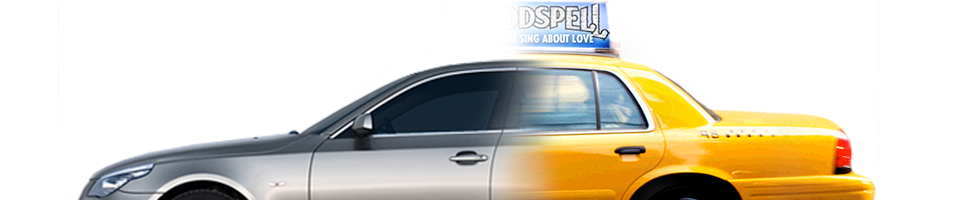
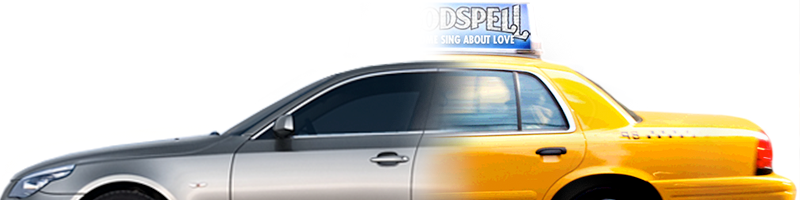
form page stylized

Changed region(s): [[0.0, 0.0, 1.0, 1.0]]

diff --git a/reusable-library/css/style.css b/reusable-library/css/style.css
@@ -1,19 +1,69 @@
 body{
 	margin: 0;
+	font-family: 'Source Sans Pro', sans-serif;
+}
+h1{
+	margin: 0;
+	color: #8B92A4;
+	font-weight: 700;
+	font-size: 42px;
+	line-height: 42px;
+}
+h2{
+	margin: 12px 0 0;
+	color: #BDBDC4;
+	font-weight: 400;
+	font-size: 32px;
+}
+#container{
+	height: 300px;
+	width: 800px;
+	margin: 50px auto 0;
+	padding: 20px;
+	border-radius: 10px;
+}
+#page_text{
+	width: 400px;
+	float: left;
+}
+#questions{
+	width: 350px;
+	float: right;
+}
+.option_box{
+	display: table-cell;
+    vertical-align: middle;
+    height: 30px;
+    width: 350px;
+    float: right;
+    margin-bottom: 15px;
+}
+label{
+	line-height: 30px;
+	font-weight: 200;
+	color: #0E1C29;
+}
+.input_num{
+	height: 25px;
+	width: 60px;
+	border: 1px solid #8B92A4;
+}
+#submit_button{
+	width: 350px;
+	height: 45px;
+	border: 1px solid #081725;
+	font-family: 'Source Sans Pro', sans-serif;
+	font-weight: 400;
+	font-size: 18px;
 }
 #car_img{
 	height: 200px;
-	width: 960px;
+	width: 800px;
 	background-image: url('../img/car_split.png');
 	position: absolute;
 	bottom: 0;
-}
-#container{
-	height: 100px;
-	width: 400px;
-	margin: 50px auto 0;
-	padding: 20px;
-	border: 20px solid black;
-	border-radius: 10px;
-	background-color: white;
+	left:0;
+    right:0;
+    margin-left:auto;
+    margin-right:auto;
 }

diff --git a/reusable-library/page.py b/reusable-library/page.py
@@ -6,24 +6,27 @@ class FormPage(object):
 	<head>
 		<title>BAC</title>
 		<link href="css/style.css" rel="stylesheet" type="text/css" >
+		<link href='http://fonts.googleapis.com/css?family=Source+Sans+Pro:400,700,200' rel='stylesheet' type='text/css'>
 	</head>
 	<body>
 	"""
 		self.body = """
 		<div id="container">
-			<h1>Form</h1>
+			<div id="page_text">
+				<h1>Having a hard time deciding on whether to drive or not?</h1> 
+				<h2>Use this blood alcohol concentration calculator to find which ride you need to take!</h2>
+			</div>
 			<form method="GET">
+				<div id="questions">
 					<div class="option_box">
 						<label for="sex">Sex?</label>
 						<input type="radio" name="sex" value="male">Male
 						<input type="radio" name="sex" value="female">Female
 					</div>
-					
 					<div class="option_box">
-						<label for="weight">Body weight?</label> 
-						<input type="text" name="weight" />	
+						<label for="weight">Body weight?</label>
+						<input type="text" class="input_num" name="weight" />	
 					</div>
-					
 					<div class="option_box">
 						<label for="drink">Drink of choice?</label>
 						<select name="drink">
@@ -32,23 +35,19 @@ class FormPage(object):
 							<option value="shot">Shots</option>
 						</select> 
 					</div>
-					
 					<div class="option_box">
-						<label for="number">How many drinks?</label> 
-						<input type="text" name="number" />	
+						<label for="number">How many drinks?</label>
+						<input type="text" class="input_num" name="number" />	
 					</div>
-					
 					<div class="option_box">
-						<label for="hours">How many hours since first drink?</label> 
-						<input type="text" name="hours" />	
+						<label for="hours">How many hours since first drink?</label>
+						<input type="text" class="input_num" name="hours" />	
 					</div>
-				
-					
-					
-					<input type="submit" value="Calculate!" />
-				</form>
-			</div>
-			<div id="car_img"></div>"""
+					<input type="submit" id="submit_button" value="Calculate!" />
+				</div>
+			</form>
+		</div>
+		<div id="car_img"></div>"""
 		self.__close = """
 	</body>
 </html>
